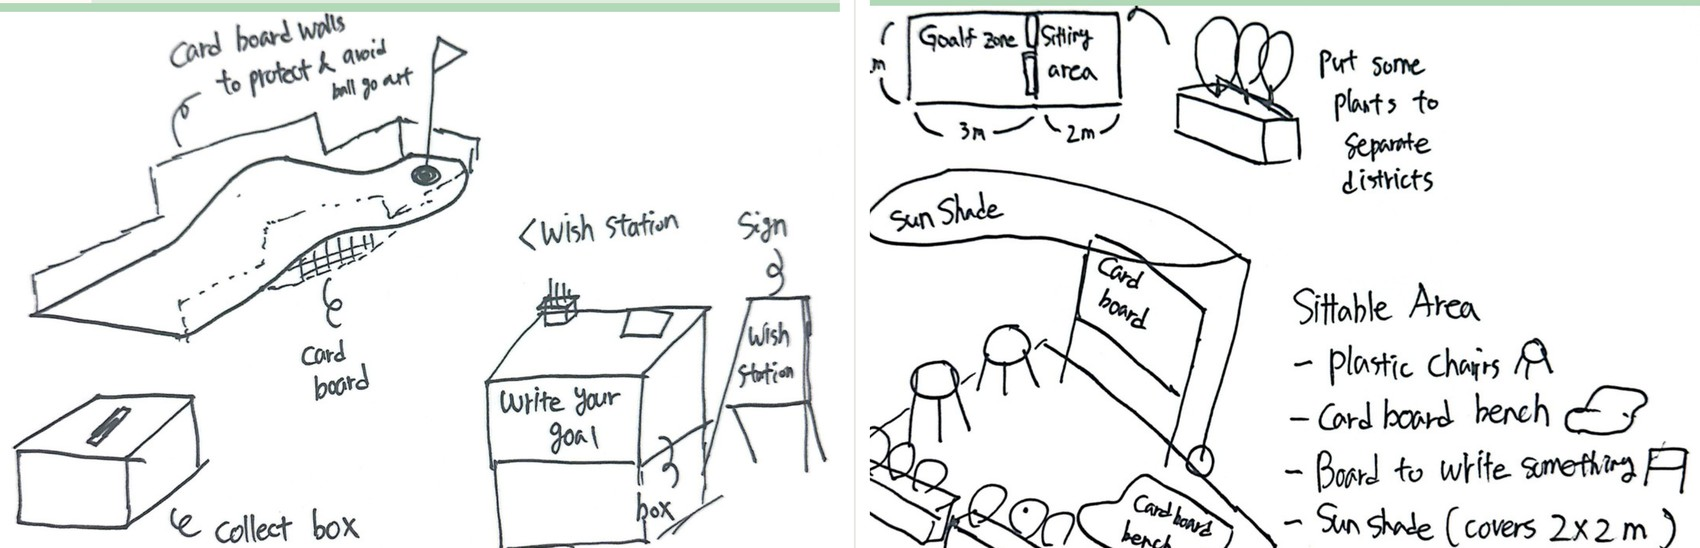
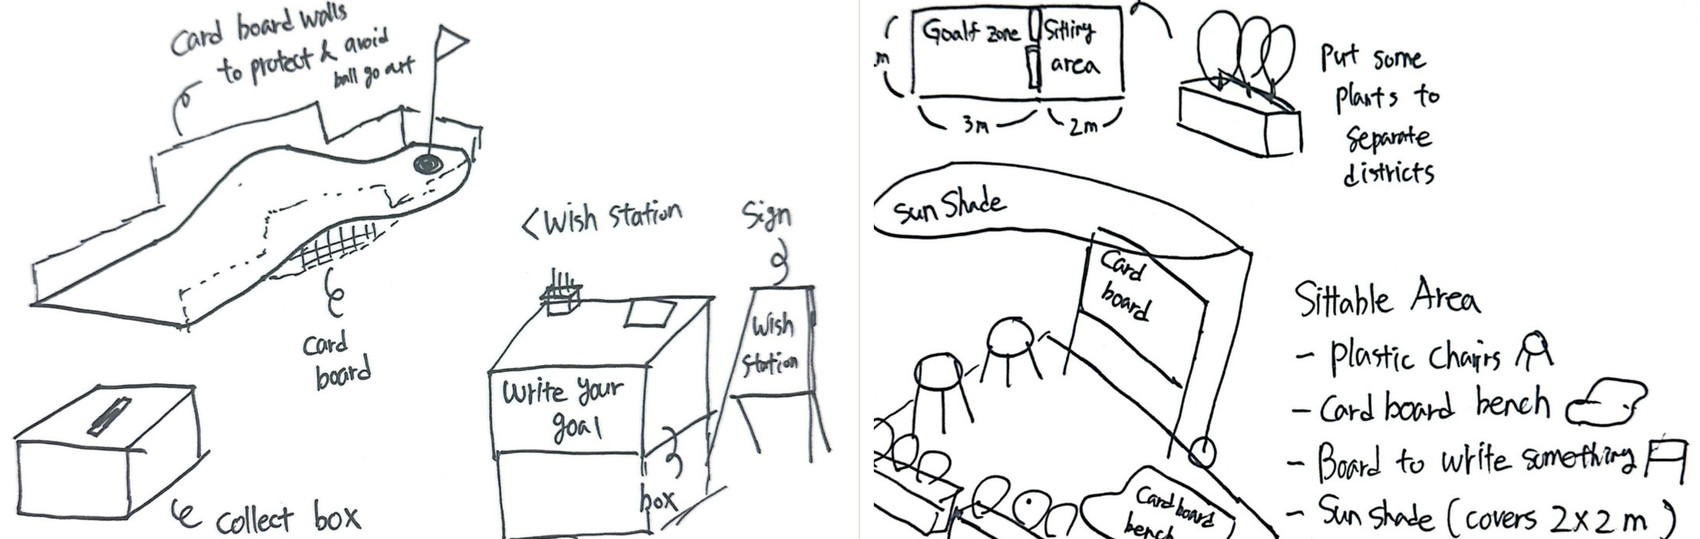
Cut the green rule off the sketch edges
The padding added around each drawing's ink reached back over the green
border of the box it sits in, leaving a line along the top. Each drawing
and then the finished pair now have any edge row or column still
carrying that green taken off, measured by how far its green runs ahead
of its red and blue. The top rows read neutral white afterwards.

Claude-Session: https://claude.ai/code/session_01X6hUeDPLV6yPLBN9Fmkdq1

diff --git a/index.html b/index.html
@@ -138,7 +138,7 @@
     <p class="lead rv" data-ko="공간은 더 이상 차를 세워 두는 자리가 아니라, 거리 한가운데 잠시 머물다 갈 수 있는 여유가 됩니다. 놀 거리가 있고, 읽을 거리가 있고, 앉을 자리가 있습니다.">The parking space stops being storage for a car and becomes a short, generous pause in the middle of the street — something to play, something to read, somewhere to sit.</p>
 
     <figure class="poster rv">
-      <img src="assets/img/sketches.jpg" alt="Two concept sketches side by side: the course with the wish station and collect box, and the seating area with the bench and sun shade." loading="lazy" width="1700" height="548">
+      <img src="assets/img/sketches.jpg" alt="Two concept sketches side by side: the course with the wish station and collect box, and the seating area with the bench and sun shade." loading="lazy" width="1700" height="539">
       <figcaption data-ko="스케치 — 코스와 소원 스테이션 · 좌석과 차양">Sketches — course &amp; wish station · seating &amp; sun shade</figcaption>
     </figure>
 
